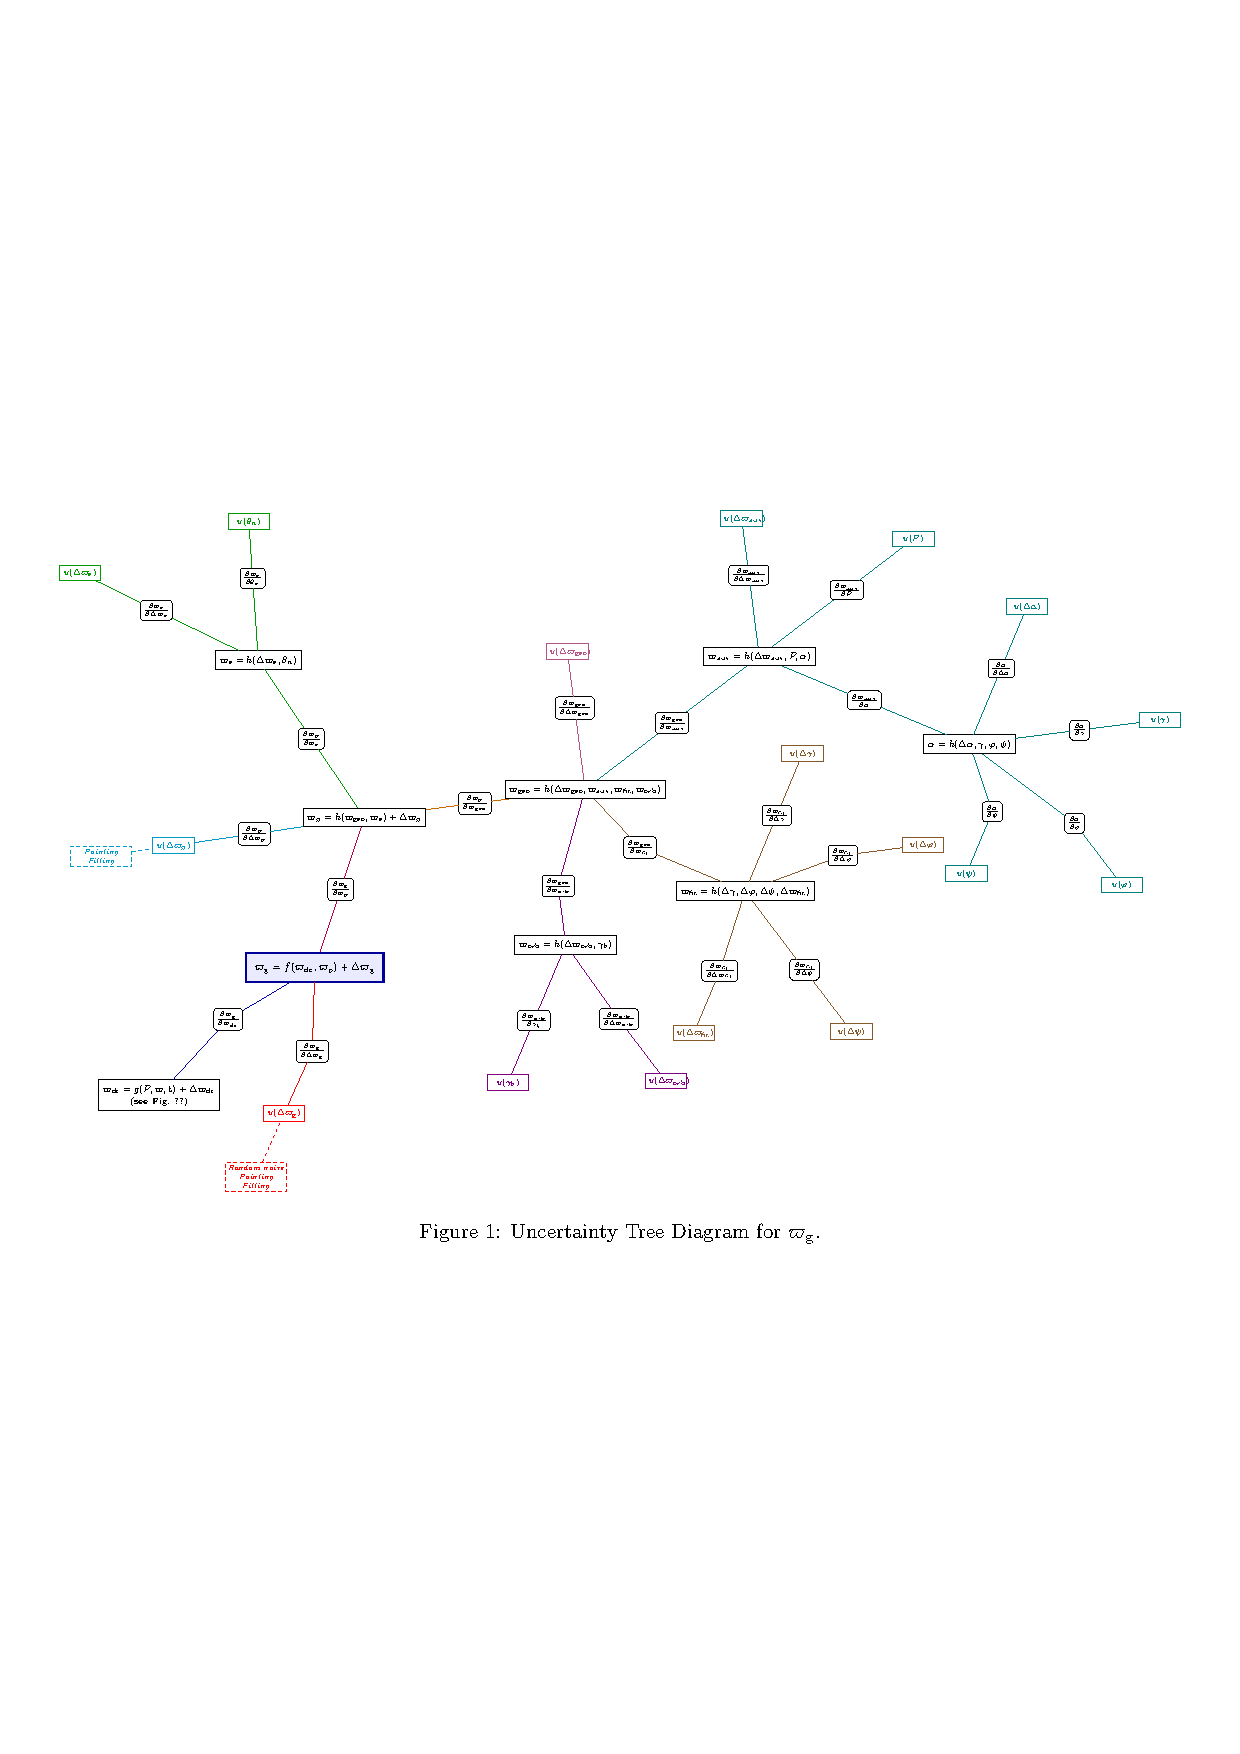
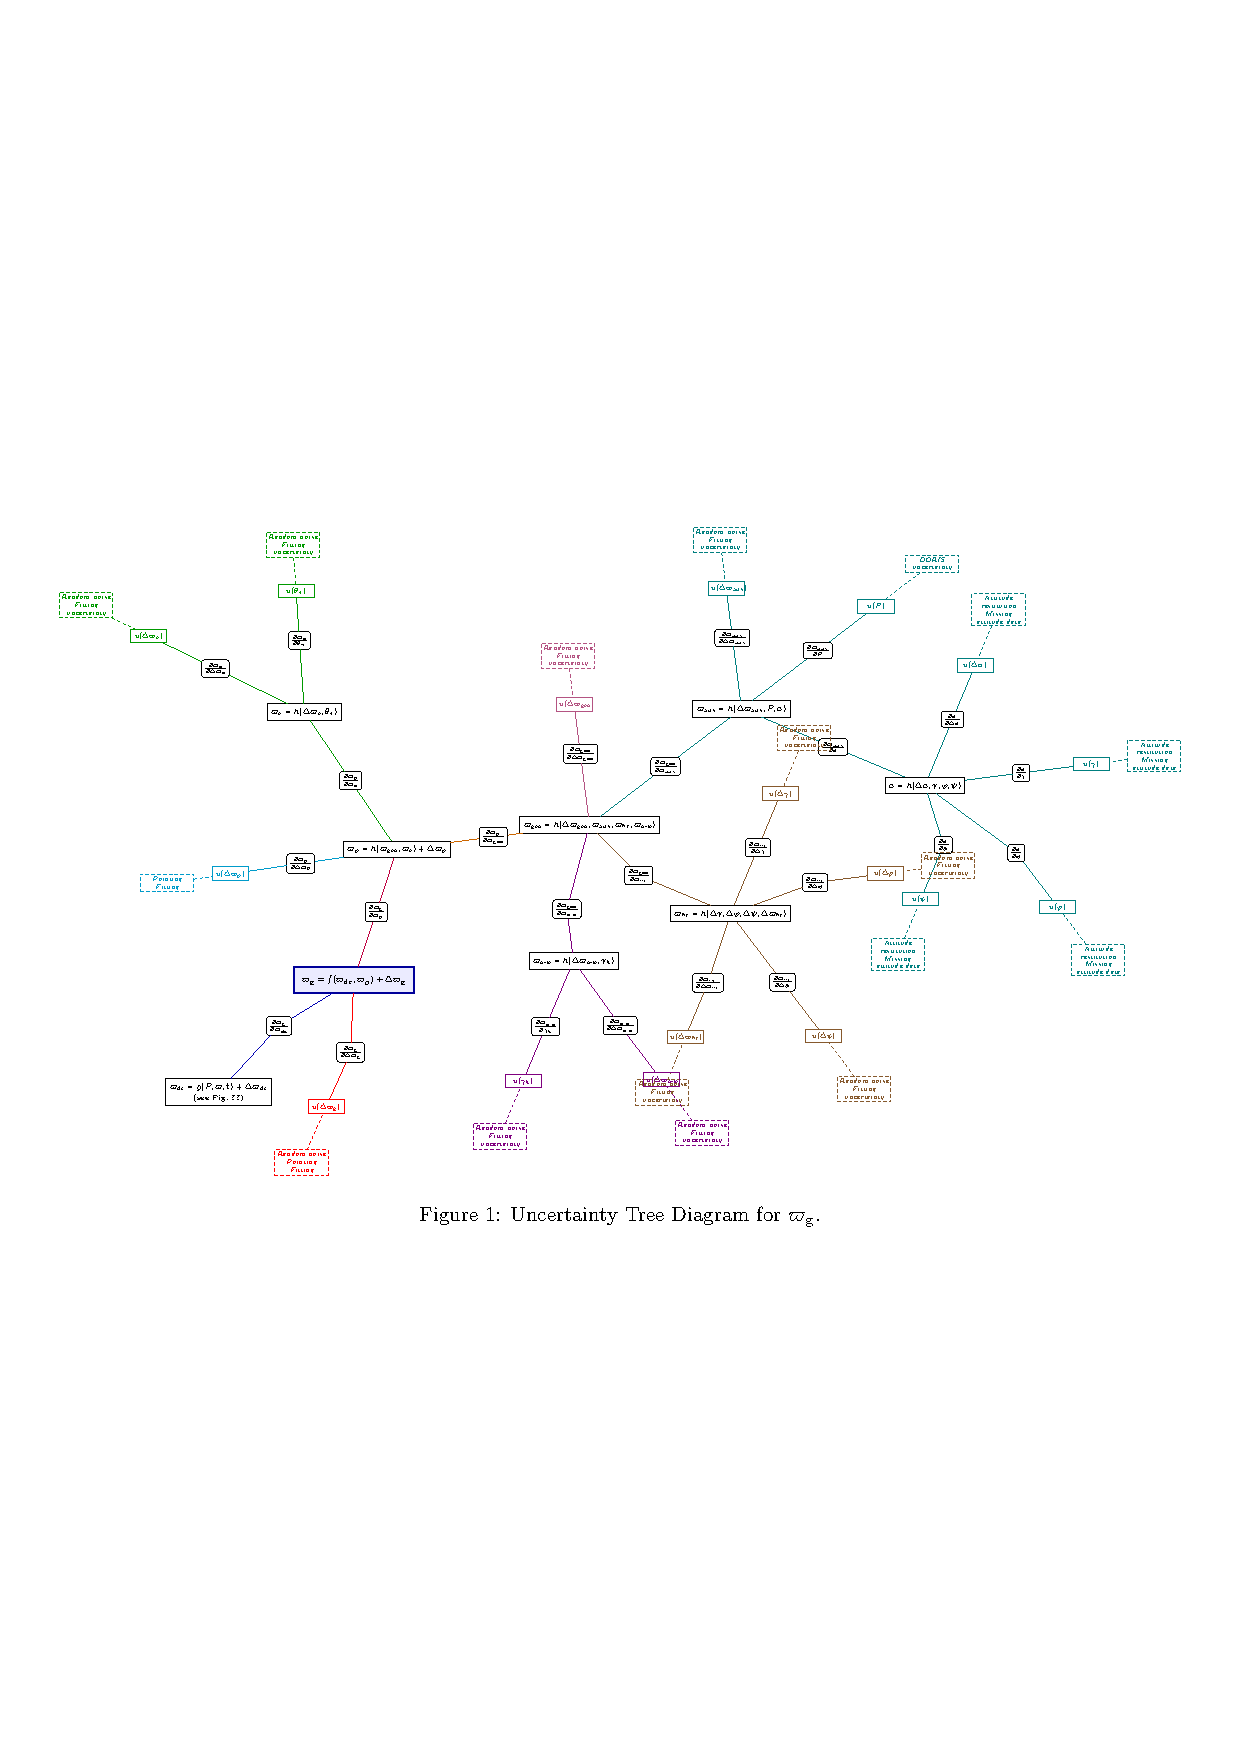
Add effect annotations to all leaf nodes; improve auto-layout convergence
- All leaf InputVars now carry effects based on the original document:
  * Attitude inputs (Δα, γ, φ, ψ): 'Attitude restitution / Missing attitude data'
  * Δϖ_aux, P: 'DORIS uncertainty'
  * ϖ_fit leaves (Δγ, Δφ, Δψ, Δϖ_fit): 'Random noise / Fitting uncertainty'
  * ϖ_orb leaves (Δϖ_orb, γ_h): 'Random noise / Fitting uncertainty'
  * ϖ_e leaves (Δϖ_e, θ_n): 'Random noise / Fitting uncertainty'
  * ϖ_geo: 'Random noise / Fitting uncertainty'
  Result: 17 effect annotation nodes in scene_calibration figure

- Auto-layout improvements:
  * Exclude effect nodes from collision push loop (dashed annotations at
    branch tips can overlap marginally without visual harm)
  * All sub-branch ivars use themselves as root_ivar for independence
  * Increase max_iterations to 100; add cooling schedule (damping decreases
    from 0.50 to 0.08 over iterations to prevent oscillation)
  * Result: 0 non-effect overlaps; 6 marginal effect-tip overlaps only

diff --git a/scene_calibration.tex b/scene_calibration.tex
@@ -14,19 +14,19 @@
 		\node [root_block] (VARPIRMGROOT) {$\varpi_{\rm g} = f(\varpi_{\rm dc}, \varpi_{\rm p}) + \Delta\varpi_{\rm g}$};
 
 		% ∂\varpi_{\rm g}/∂\Delta\varpi_{\rm g}
-		\node [deriv_node] at ($(VARPIRMGROOT)+(-0.08cm,-2.65cm)$) (DDELTAVARPIRMG) {$\frac{\partial \varpi_{\rm g}}{\partial \Delta\varpi_{\rm g}}$};
+		\node [deriv_node] at ($(VARPIRMGROOT)+(-0.11cm,-2.62cm)$) (DDELTAVARPIRMG) {$\frac{\partial \varpi_{\rm g}}{\partial \Delta\varpi_{\rm g}}$};
 		\draw [connection, red] (VARPIRMGROOT) -- (DDELTAVARPIRMG);
-		\node [leaf_node, draw=red, text=red] at ($(VARPIRMGROOT)+(-0.97cm,-4.62cm)$) (UDELTAVARPIRMG) {$u(\Delta\varpi_{\rm g})$};
+		\node [leaf_node, draw=red, text=red] at ($(VARPIRMGROOT)+(-1.00cm,-4.60cm)$) (UDELTAVARPIRMG) {$u(\Delta\varpi_{\rm g})$};
 		\draw [connection, red] (DDELTAVARPIRMG) -- (UDELTAVARPIRMG);
-		\node [effect_node, red] at ($(VARPIRMGROOT)+(-1.87cm,-6.64cm)$) (EFFDELTAVARPIRMG) {Random noise \\ Pointing \\ Fitting};
+		\node [effect_node, red] at ($(VARPIRMGROOT)+(-1.90cm,-6.62cm)$) (EFFDELTAVARPIRMG) {Random noise \\ Pointing \\ Fitting};
 		\draw [connection, red, dashed] (EFFDELTAVARPIRMG) -- (UDELTAVARPIRMG);
 
 		% ∂\varpi_{\rm g}/∂\varpi_{\rm dc}
-		\node [deriv_node] at ($(VARPIRMGROOT)+(-2.74cm,-1.64cm)$) (DVARPIRMDC) {$\frac{\partial \varpi_{\rm g}}{\partial \varpi_{\rm dc}}$};
+		\node [deriv_node] at ($(VARPIRMGROOT)+(-2.71cm,-1.67cm)$) (DVARPIRMDC) {$\frac{\partial \varpi_{\rm g}}{\partial \varpi_{\rm dc}}$};
 		\draw [connection, blue!70!black] (VARPIRMGROOT) -- (DVARPIRMDC);
 
 		% sub-model: \varpi_{\rm dc}
-		\node [model_block] at ($(VARPIRMGROOT)+(-4.94cm,-4.04cm)$) (MVARPIRMDC) {$\varpi_{\rm dc} = g(P, \varpi, \mathbf{t}) + \Delta\varpi_{\rm dc}$\\ \footnotesize(see Fig.~\ref{fig:dc_uncertainty_trace})};
+		\node [model_block] at ($(VARPIRMGROOT)+(-4.91cm,-4.07cm)$) (MVARPIRMDC) {$\varpi_{\rm dc} = g(P, \varpi, \mathbf{t}) + \Delta\varpi_{\rm dc}$\\ \footnotesize(see Fig.~\ref{fig:dc_uncertainty_trace})};
 		\draw [connection, blue!70!black] (DVARPIRMDC) -- (MVARPIRMDC);
 
 		% ∂\varpi_{\rm g}/∂\varpi_{\rm p}
@@ -56,12 +56,16 @@
 		\draw [connection, green!60!black] (MVARPIRME) -- (DDELTAVARPIRME);
 		\node [leaf_node, draw=green!60!black, text=green!60!black] at ($(VARPIRMGROOT)+(-7.44cm,12.50cm)$) (UDELTAVARPIRME) {$u(\Delta\varpi_{\rm e})$};
 		\draw [connection, green!60!black] (DDELTAVARPIRME) -- (UDELTAVARPIRME);
+		\node [effect_node, green!60!black] at ($(VARPIRMGROOT)+(-9.72cm,13.61cm)$) (EFFDELTAVARPIRME) {Random noise \\ Fitting uncertainty};
+		\draw [connection, green!60!black, dashed] (EFFDELTAVARPIRME) -- (UDELTAVARPIRME);
 
 		% ∂\varpi_{\rm e}/∂\theta_n
 		\node [deriv_node] at ($(VARPIRMGROOT)+(-1.97cm,12.33cm)$) (DTHETAN) {$\frac{\partial \varpi_{\rm e}}{\partial \theta_n}$};
 		\draw [connection, green!60!black] (MVARPIRME) -- (DTHETAN);
 		\node [leaf_node, draw=green!60!black, text=green!60!black] at ($(VARPIRMGROOT)+(-2.09cm,14.13cm)$) (UTHETAN) {$u(\theta_n)$};
 		\draw [connection, green!60!black] (DTHETAN) -- (UTHETAN);
+		\node [effect_node, green!60!black] at ($(VARPIRMGROOT)+(-2.21cm,15.80cm)$) (EFFTHETAN) {Random noise \\ Fitting uncertainty};
+		\draw [connection, green!60!black, dashed] (EFFTHETAN) -- (UTHETAN);
 
 
 		% ∂\varpi_{\rm p}/∂\varpi_{\rm geo}
@@ -76,6 +80,8 @@
 		\draw [connection, magenta!70!black] (MVARPIRMGEO) -- (DDELTAVARPIRMGEO);
 		\node [leaf_node, draw=magenta!70!black, text=magenta!70!black] at ($(VARPIRMGROOT)+(8.00cm,10.01cm)$) (UDELTAVARPIRMGEO) {$u(\Delta\varpi_{\rm geo})$};
 		\draw [connection, magenta!70!black] (DDELTAVARPIRMGEO) -- (UDELTAVARPIRMGEO);
+		\node [effect_node, magenta!70!black] at ($(VARPIRMGROOT)+(7.77cm,11.77cm)$) (EFFDELTAVARPIRMGEO) {Random noise \\ Fitting uncertainty};
+		\draw [connection, magenta!70!black, dashed] (EFFDELTAVARPIRMGEO) -- (UDELTAVARPIRMGEO);
 
 		% ∂\varpi_{\rm geo}/∂\varpi_{\rm aux}
 		\node [deriv_node] at ($(VARPIRMGROOT)+(11.32cm,7.75cm)$) (DVARPIRMAUX) {$\frac{\partial \varpi_{\rm geo}}{\partial \varpi_{\rm aux}}$};
@@ -89,12 +95,16 @@
 		\draw [connection, teal] (MVARPIRMAUX) -- (DDELTAVARPIRMAUX);
 		\node [leaf_node, draw=teal, text=teal] at ($(VARPIRMGROOT)+(13.52cm,14.22cm)$) (UDELTAVARPIRMAUX) {$u(\Delta\varpi_{\rm aux})$};
 		\draw [connection, teal] (DDELTAVARPIRMAUX) -- (UDELTAVARPIRMAUX);
+		\node [effect_node, teal] at ($(VARPIRMGROOT)+(13.30cm,15.98cm)$) (EFFDELTAVARPIRMAUX) {Random noise \\ Fitting uncertainty};
+		\draw [connection, teal, dashed] (EFFDELTAVARPIRMAUX) -- (UDELTAVARPIRMAUX);
 
 		% ∂\varpi_{\rm aux}/∂P
 		\node [deriv_node] at ($(VARPIRMGROOT)+(16.85cm,11.96cm)$) (DP) {$\frac{\partial \varpi_{\rm aux}}{\partial P}$};
 		\draw [connection, teal] (MVARPIRMAUX) -- (DP);
 		\node [leaf_node, draw=teal, text=teal] at ($(VARPIRMGROOT)+(18.96cm,13.57cm)$) (UP) {$u(P)$};
 		\draw [connection, teal] (DP) -- (UP);
+		\node [effect_node, teal] at ($(VARPIRMGROOT)+(20.99cm,15.11cm)$) (EFFP) {DORIS uncertainty};
+		\draw [connection, teal, dashed] (EFFP) -- (UP);
 
 		% ∂\varpi_{\rm aux}/∂\alpha
 		\node [deriv_node] at ($(VARPIRMGROOT)+(17.41cm,8.46cm)$) (DALPHA) {$\frac{\partial \varpi_{\rm aux}}{\partial \alpha}$};
@@ -108,77 +118,97 @@
 		\draw [connection, teal] (MALPHA) -- (DDELTAALPHA);
 		\node [leaf_node, draw=teal, text=teal] at ($(VARPIRMGROOT)+(22.56cm,11.43cm)$) (UDELTAALPHA) {$u(\Delta\alpha)$};
 		\draw [connection, teal] (DDELTAALPHA) -- (UDELTAALPHA);
+		\node [effect_node, teal] at ($(VARPIRMGROOT)+(23.41cm,13.45cm)$) (EFFDELTAALPHA) {Attitude restitution \\ Missing attitude data};
+		\draw [connection, teal, dashed] (EFFDELTAALPHA) -- (UDELTAALPHA);
 
 		% ∂\alpha/∂\gamma
 		\node [deriv_node] at ($(VARPIRMGROOT)+(24.23cm,7.52cm)$) (DGAMMA) {$\frac{\partial \alpha}{\partial \gamma}$};
 		\draw [connection, teal] (MALPHA) -- (DGAMMA);
 		\node [leaf_node, draw=teal, text=teal] at ($(VARPIRMGROOT)+(26.78cm,7.84cm)$) (UGAMMA) {$u(\gamma)$};
 		\draw [connection, teal] (DGAMMA) -- (UGAMMA);
+		\node [effect_node, teal] at ($(VARPIRMGROOT)+(29.06cm,8.14cm)$) (EFFGAMMA) {Attitude restitution \\ Missing attitude data};
+		\draw [connection, teal, dashed] (EFFGAMMA) -- (UGAMMA);
 
 		% ∂\alpha/∂\varphi
-		\node [deriv_node] at ($(VARPIRMGROOT)+(24.07cm,4.57cm)$) (DVARPHI) {$\frac{\partial \alpha}{\partial \varphi}$};
+		\node [deriv_node] at ($(VARPIRMGROOT)+(24.06cm,4.62cm)$) (DVARPHI) {$\frac{\partial \alpha}{\partial \varphi}$};
 		\draw [connection, teal] (MALPHA) -- (DVARPHI);
-		\node [leaf_node, draw=teal, text=teal] at ($(VARPIRMGROOT)+(25.56cm,2.62cm)$) (UVARPHI) {$u(\varphi)$};
+		\node [leaf_node, draw=teal, text=teal] at ($(VARPIRMGROOT)+(25.55cm,2.66cm)$) (UVARPHI) {$u(\varphi)$};
 		\draw [connection, teal] (DVARPHI) -- (UVARPHI);
+		\node [effect_node, teal] at ($(VARPIRMGROOT)+(27.03cm,0.73cm)$) (EFFVARPHI) {Attitude restitution \\ Missing attitude data};
+		\draw [connection, teal, dashed] (EFFVARPHI) -- (UVARPHI);
 
 		% ∂\alpha/∂\psi
-		\node [deriv_node] at ($(VARPIRMGROOT)+(21.46cm,4.93cm)$) (DPSI) {$\frac{\partial \alpha}{\partial \psi}$};
+		\node [deriv_node] at ($(VARPIRMGROOT)+(21.41cm,4.91cm)$) (DPSI) {$\frac{\partial \alpha}{\partial \psi}$};
 		\draw [connection, teal] (MALPHA) -- (DPSI);
-		\node [leaf_node, draw=teal, text=teal] at ($(VARPIRMGROOT)+(20.64cm,2.97cm)$) (UPSI) {$u(\psi)$};
+		\node [leaf_node, draw=teal, text=teal] at ($(VARPIRMGROOT)+(20.59cm,2.94cm)$) (UPSI) {$u(\psi)$};
 		\draw [connection, teal] (DPSI) -- (UPSI);
+		\node [effect_node, teal] at ($(VARPIRMGROOT)+(19.75cm,0.93cm)$) (EFFPSI) {Attitude restitution \\ Missing attitude data};
+		\draw [connection, teal, dashed] (EFFPSI) -- (UPSI);
 
 
 
 		% ∂\varpi_{\rm geo}/∂\varpi_{\rm fit}
-		\node [deriv_node] at ($(VARPIRMGROOT)+(10.30cm,3.80cm)$) (DVARPIRMFIT) {$\frac{\partial \varpi_{\rm geo}}{\partial \varpi_{\rm fit}}$};
+		\node [deriv_node] at ($(VARPIRMGROOT)+(10.35cm,3.80cm)$) (DVARPIRMFIT) {$\frac{\partial \varpi_{\rm geo}}{\partial \varpi_{\rm fit}}$};
 		\draw [connection, brown!70!black] (MVARPIRMGEO) -- (DVARPIRMFIT);
 
 		% sub-model: \varpi_{\rm fit}
-		\node [model_block] at ($(VARPIRMGROOT)+(13.63cm,2.41cm)$) (MVARPIRMFIT) {$\varpi_{\rm fit} = h(\Delta\gamma, \Delta\varphi, \Delta\psi, \Delta\varpi_{\rm fit})$};
+		\node [model_block] at ($(VARPIRMGROOT)+(13.68cm,2.41cm)$) (MVARPIRMFIT) {$\varpi_{\rm fit} = h(\Delta\gamma, \Delta\varphi, \Delta\psi, \Delta\varpi_{\rm fit})$};
 		\draw [connection, brown!70!black] (DVARPIRMFIT) -- (MVARPIRMFIT);
 		% ∂\varpi_{\rm fit}/∂\Delta\gamma
-		\node [deriv_node] at ($(VARPIRMGROOT)+(14.63cm,4.81cm)$) (DDELTAGAMMA) {$\frac{\partial \varpi_{\rm fit}}{\partial \Delta\gamma}$};
+		\node [deriv_node] at ($(VARPIRMGROOT)+(14.68cm,4.81cm)$) (DDELTAGAMMA) {$\frac{\partial \varpi_{\rm fit}}{\partial \Delta\gamma}$};
 		\draw [connection, brown!70!black] (MVARPIRMFIT) -- (DDELTAGAMMA);
-		\node [leaf_node, draw=brown!70!black, text=brown!70!black] at ($(VARPIRMGROOT)+(15.45cm,6.77cm)$) (UDELTAGAMMA) {$u(\Delta\gamma)$};
+		\node [leaf_node, draw=brown!70!black, text=brown!70!black] at ($(VARPIRMGROOT)+(15.50cm,6.77cm)$) (UDELTAGAMMA) {$u(\Delta\gamma)$};
 		\draw [connection, brown!70!black] (DDELTAGAMMA) -- (UDELTAGAMMA);
+		\node [effect_node, brown!70!black] at ($(VARPIRMGROOT)+(16.34cm,8.79cm)$) (EFFDELTAGAMMA) {Random noise \\ Fitting uncertainty};
+		\draw [connection, brown!70!black, dashed] (EFFDELTAGAMMA) -- (UDELTAGAMMA);
 
 		% ∂\varpi_{\rm fit}/∂\Delta\varphi
-		\node [deriv_node] at ($(VARPIRMGROOT)+(16.72cm,3.55cm)$) (DDELTAVARPHI) {$\frac{\partial \varpi_{\rm fit}}{\partial \Delta\varphi}$};
+		\node [deriv_node] at ($(VARPIRMGROOT)+(16.75cm,3.54cm)$) (DDELTAVARPHI) {$\frac{\partial \varpi_{\rm fit}}{\partial \Delta\varphi}$};
 		\draw [connection, brown!70!black] (MVARPIRMFIT) -- (DDELTAVARPHI);
-		\node [leaf_node, draw=brown!70!black, text=brown!70!black] at ($(VARPIRMGROOT)+(19.27cm,3.88cm)$) (UDELTAVARPHI) {$u(\Delta\varphi)$};
+		\node [leaf_node, draw=brown!70!black, text=brown!70!black] at ($(VARPIRMGROOT)+(19.30cm,3.87cm)$) (UDELTAVARPHI) {$u(\Delta\varphi)$};
 		\draw [connection, brown!70!black] (DDELTAVARPHI) -- (UDELTAVARPHI);
+		\node [effect_node, brown!70!black] at ($(VARPIRMGROOT)+(21.58cm,4.16cm)$) (EFFDELTAVARPHI) {Random noise \\ Fitting uncertainty};
+		\draw [connection, brown!70!black, dashed] (EFFDELTAVARPHI) -- (UDELTAVARPHI);
 
 		% ∂\varpi_{\rm fit}/∂\Delta\psi
-		\node [deriv_node] at ($(VARPIRMGROOT)+(15.51cm,-0.07cm)$) (DDELTAPSI) {$\frac{\partial \varpi_{\rm fit}}{\partial \Delta\psi}$};
+		\node [deriv_node] at ($(VARPIRMGROOT)+(15.57cm,-0.07cm)$) (DDELTAPSI) {$\frac{\partial \varpi_{\rm fit}}{\partial \Delta\psi}$};
 		\draw [connection, brown!70!black] (MVARPIRMFIT) -- (DDELTAPSI);
-		\node [leaf_node, draw=brown!70!black, text=brown!70!black] at ($(VARPIRMGROOT)+(17.00cm,-2.03cm)$) (UDELTAPSI) {$u(\Delta\psi)$};
+		\node [leaf_node, draw=brown!70!black, text=brown!70!black] at ($(VARPIRMGROOT)+(17.06cm,-2.02cm)$) (UDELTAPSI) {$u(\Delta\psi)$};
 		\draw [connection, brown!70!black] (DDELTAPSI) -- (UDELTAPSI);
+		\node [effect_node, brown!70!black] at ($(VARPIRMGROOT)+(18.53cm,-3.96cm)$) (EFFDELTAPSI) {Random noise \\ Fitting uncertainty};
+		\draw [connection, brown!70!black, dashed] (EFFDELTAPSI) -- (UDELTAPSI);
 
 		% ∂\varpi_{\rm fit}/∂\Delta\varpi_{\rm fit}
-		\node [deriv_node] at ($(VARPIRMGROOT)+(12.83cm,-0.11cm)$) (DDELTAVARPIRMFIT) {$\frac{\partial \varpi_{\rm fit}}{\partial \Delta\varpi_{\rm fit}}$};
+		\node [deriv_node] at ($(VARPIRMGROOT)+(12.86cm,-0.10cm)$) (DDELTAVARPIRMFIT) {$\frac{\partial \varpi_{\rm fit}}{\partial \Delta\varpi_{\rm fit}}$};
 		\draw [connection, brown!70!black] (MVARPIRMFIT) -- (DDELTAVARPIRMFIT);
-		\node [leaf_node, draw=brown!70!black, text=brown!70!black] at ($(VARPIRMGROOT)+(12.01cm,-2.07cm)$) (UDELTAVARPIRMFIT) {$u(\Delta\varpi_{\rm fit})$};
+		\node [leaf_node, draw=brown!70!black, text=brown!70!black] at ($(VARPIRMGROOT)+(12.04cm,-2.07cm)$) (UDELTAVARPIRMFIT) {$u(\Delta\varpi_{\rm fit})$};
 		\draw [connection, brown!70!black] (DDELTAVARPIRMFIT) -- (UDELTAVARPIRMFIT);
+		\node [effect_node, brown!70!black] at ($(VARPIRMGROOT)+(11.20cm,-4.08cm)$) (EFFDELTAVARPIRMFIT) {Random noise \\ Fitting uncertainty};
+		\draw [connection, brown!70!black, dashed] (EFFDELTAVARPIRMFIT) -- (UDELTAVARPIRMFIT);
 
 
 		% ∂\varpi_{\rm geo}/∂\varpi_{\rm orb}
-		\node [deriv_node] at ($(VARPIRMGROOT)+(7.71cm,2.58cm)$) (DVARPIRMORB) {$\frac{\partial \varpi_{\rm geo}}{\partial \varpi_{\rm orb}}$};
+		\node [deriv_node] at ($(VARPIRMGROOT)+(7.74cm,2.57cm)$) (DVARPIRMORB) {$\frac{\partial \varpi_{\rm geo}}{\partial \varpi_{\rm orb}}$};
 		\draw [connection, violet] (MVARPIRMGEO) -- (DVARPIRMORB);
 
 		% sub-model: \varpi_{\rm orb}
-		\node [model_block] at ($(VARPIRMGROOT)+(7.95cm,0.72cm)$) (MVARPIRMORB) {$\varpi_{\rm orb} = h(\Delta\varpi_{\rm orb}, \gamma_h)$};
+		\node [model_block] at ($(VARPIRMGROOT)+(7.98cm,0.70cm)$) (MVARPIRMORB) {$\varpi_{\rm orb} = h(\Delta\varpi_{\rm orb}, \gamma_h)$};
 		\draw [connection, violet] (DVARPIRMORB) -- (MVARPIRMORB);
 		% ∂\varpi_{\rm orb}/∂\Delta\varpi_{\rm orb}
-		\node [deriv_node] at ($(VARPIRMGROOT)+(9.63cm,-1.64cm)$) (DDELTAVARPIRMORB) {$\frac{\partial \varpi_{\rm orb}}{\partial \Delta\varpi_{\rm orb}}$};
+		\node [deriv_node] at ($(VARPIRMGROOT)+(9.67cm,-1.65cm)$) (DDELTAVARPIRMORB) {$\frac{\partial \varpi_{\rm orb}}{\partial \Delta\varpi_{\rm orb}}$};
 		\draw [connection, violet] (MVARPIRMORB) -- (DDELTAVARPIRMORB);
-		\node [leaf_node, draw=violet, text=violet] at ($(VARPIRMGROOT)+(11.12cm,-3.60cm)$) (UDELTAVARPIRMORB) {$u(\Delta\varpi_{\rm orb})$};
+		\node [leaf_node, draw=violet, text=violet] at ($(VARPIRMGROOT)+(11.16cm,-3.61cm)$) (UDELTAVARPIRMORB) {$u(\Delta\varpi_{\rm orb})$};
 		\draw [connection, violet] (DDELTAVARPIRMORB) -- (UDELTAVARPIRMORB);
+		\node [effect_node, violet] at ($(VARPIRMGROOT)+(12.64cm,-5.55cm)$) (EFFDELTAVARPIRMORB) {Random noise \\ Fitting uncertainty};
+		\draw [connection, violet, dashed] (EFFDELTAVARPIRMORB) -- (UDELTAVARPIRMORB);
 
 		% ∂\varpi_{\rm orb}/∂\gamma_h
-		\node [deriv_node] at ($(VARPIRMGROOT)+(6.94cm,-1.68cm)$) (DGAMMAH) {$\frac{\partial \varpi_{\rm orb}}{\partial \gamma_h}$};
+		\node [deriv_node] at ($(VARPIRMGROOT)+(6.97cm,-1.69cm)$) (DGAMMAH) {$\frac{\partial \varpi_{\rm orb}}{\partial \gamma_h}$};
 		\draw [connection, violet] (MVARPIRMORB) -- (DGAMMAH);
-		\node [leaf_node, draw=violet, text=violet] at ($(VARPIRMGROOT)+(6.12cm,-3.65cm)$) (UGAMMAH) {$u(\gamma_h)$};
+		\node [leaf_node, draw=violet, text=violet] at ($(VARPIRMGROOT)+(6.15cm,-3.66cm)$) (UGAMMAH) {$u(\gamma_h)$};
 		\draw [connection, violet] (DGAMMAH) -- (UGAMMAH);
+		\node [effect_node, violet] at ($(VARPIRMGROOT)+(5.31cm,-5.67cm)$) (EFFGAMMAH) {Random noise \\ Fitting uncertainty};
+		\draw [connection, violet, dashed] (EFFGAMMAH) -- (UGAMMAH);
 
 
 

diff --git a/gum_diagram.py b/gum_diagram.py
@@ -1170,28 +1170,31 @@ def _simulate_inputs(
         v_i = max(v_to_child, _radial_step(child_sector), _v_child_for_angle(child_angle))
         x_d_nat = parent_dx_nat + v_i * math.cos(child_angle)
         y_d_nat = parent_dy_nat + v_i * math.sin(child_angle)
-        # Each child sub-branch uses its own ivar as root so the auto-layout
-        # can push sub-branches independently (not just root-level branches).
+        # Each child uses itself as root_ivar so the auto-layout can push
+        # any sub-branch independently.  Effect nodes are excluded from the
+        # collision loop so leaf-vs-effect tip overlaps don't cause oscillation.
         recs.extend(_simulate_branch(model, ivar, x_d_nat, y_d_nat,
                                      child_angle, child_sector, depth, cum_offset,
                                      root_ivar=ivar))
     return recs
 
 
-def _auto_layout(model: "MeasurementModel", max_iterations: int = 40) -> int:
+def _auto_layout(model: "MeasurementModel", max_iterations: int = 100) -> int:
     """Iteratively adjust *branch_offset* on each :class:`InputVar` to eliminate
     bounding-box overlaps between nodes from different branches.
 
     Returns the number of iterations performed.  Modifies *model* in-place.
     """
     GAP  = 0.25   # minimum clearance gap added on top of each resolved overlap (cm)
-    DAMP = 0.45   # damping factor — prevents oscillation
+    DAMP = 0.50   # initial damping factor
 
     arc_rad = _root_sector_rad(model.inputs)
     root_sectors = _sector_angles(model.inputs, math.pi / 2, arc_rad,
                                    apply_min_sector=False)
 
     for iteration in range(max_iterations):
+        # Cooling schedule: reduce damping over time to dampen oscillation
+        damp = max(DAMP * (1.0 - iteration / (1.5 * max_iterations)), 0.08)
         # ── simulate current layout ───────────────────────────────────────────
         all_recs: List["_NodeRecord"] = []
         for ivar, (angle, sector_rad) in zip(model.inputs, root_sectors):
@@ -1209,6 +1212,10 @@ def _auto_layout(model: "MeasurementModel", max_iterations: int = 40) -> int:
                 ri, rj = all_recs[i], all_recs[j]
                 if ri.ivar is rj.ivar:
                     continue  # same branch — fine
+                # Exclude effect nodes from the push loop — they are
+                # annotation-only and a small tip overlap is acceptable.
+                if ri.ntype == "effect" or rj.ntype == "effect":
+                    continue
                 ov = _aabb_overlap(_aabb(ri), _aabb(rj))
                 if ov is None:
                     continue
@@ -1219,8 +1226,8 @@ def _auto_layout(model: "MeasurementModel", max_iterations: int = 40) -> int:
                 dist = math.hypot(dx, dy) or 1e-6
 
                 # Push proportional to overlap, damped, in the direction i→j
-                px = DAMP * (ov_x + GAP) * dx / dist
-                py = DAMP * (ov_y + GAP) * dy / dist
+                px = damp * (ov_x + GAP) * dx / dist
+                py = damp * (ov_y + GAP) * dy / dist
 
                 push.setdefault(id(ri.ivar), [ri.ivar, 0.0, 0.0])
                 push.setdefault(id(rj.ivar), [rj.ivar, 0.0, 0.0])